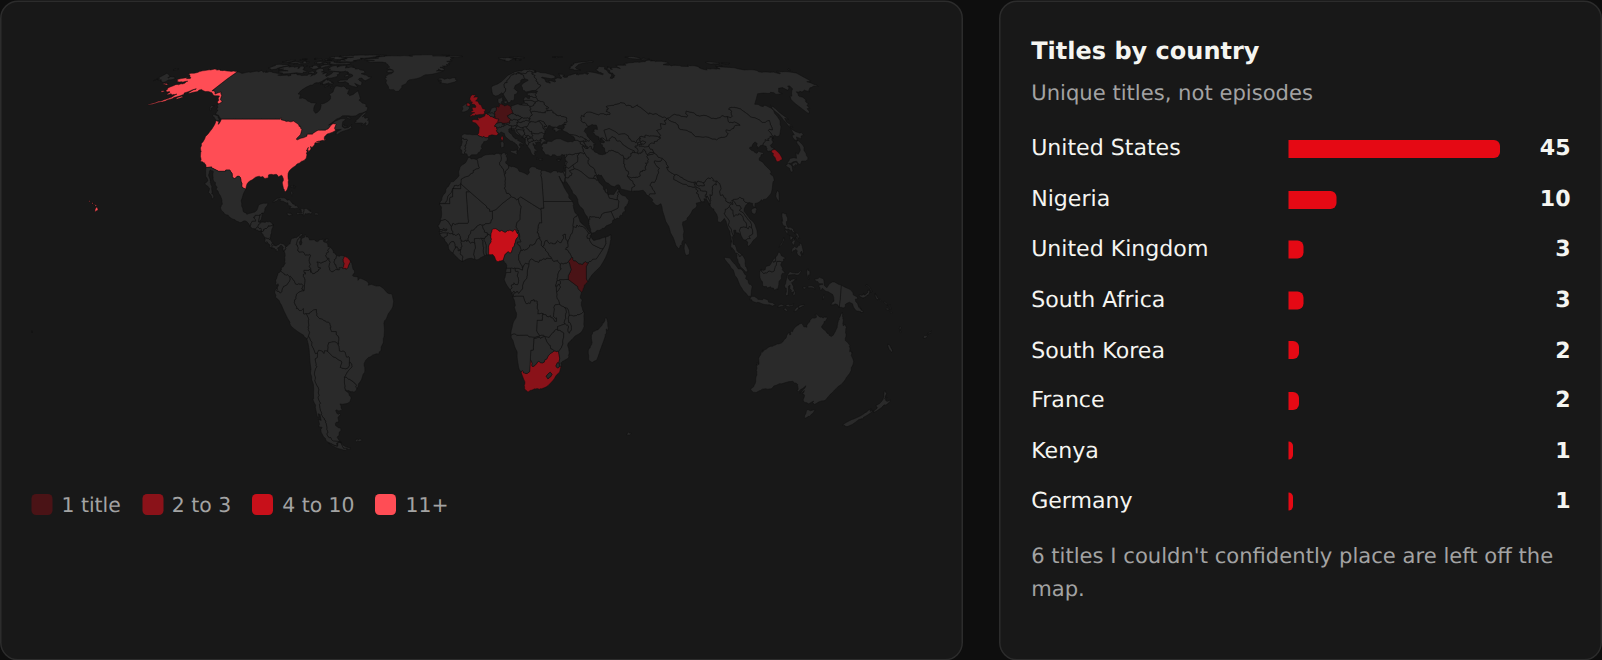
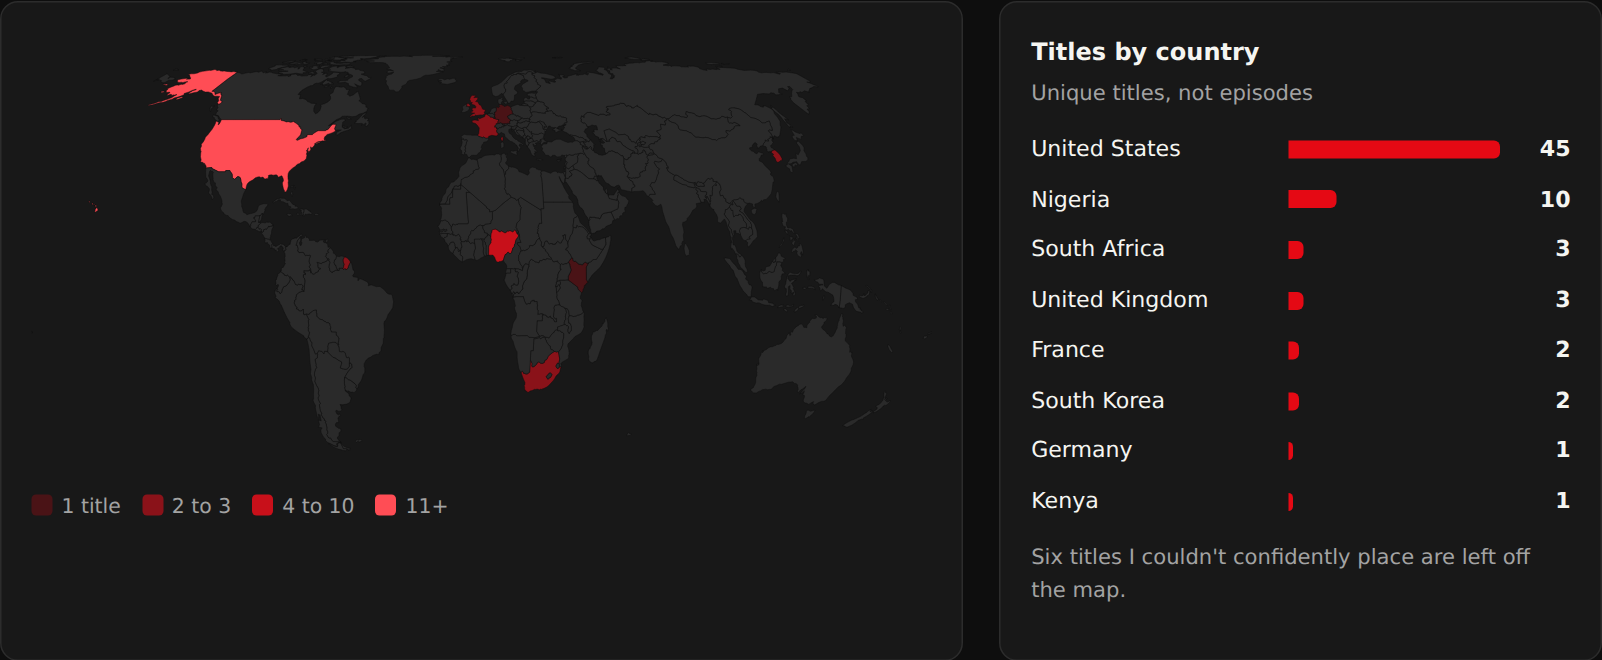
Move cleaning and analysis into SQL, tidy wording
The export is now cleaned in SQLite (ISO dates, show names) and every
number on the site comes from queries in sql/02_analysis.sql. Also
fixes punctuation and number style across the site and README.

Claude-Session: https://claude.ai/code/session_01BtZ3JRaaR4ynkaRfSMBe4b

diff --git a/docs/index.html b/docs/index.html
@@ -100,6 +100,7 @@ details summary { cursor: pointer; }
 
 .method li { margin-bottom: 8px; color: var(--muted); }
 .method b { color: var(--ink); }
+code { font: 500 .85em ui-monospace, Menlo, monospace; background: var(--surface-2); padding: 1px 5px; border-radius: 4px; }
 footer { padding: 40px 0; color: var(--faint); font-size: .88rem; border-top: 1px solid var(--line); }
 footer .wrap { display: flex; flex-wrap: wrap; justify-content: space-between; gap: 12px; }
 </style>
@@ -184,12 +185,12 @@ footer .wrap { display: flex; flex-wrap: wrap; justify-content: space-between; g
     </div>
     <div class="panel method">
       <h3>How I did it</h3>
-      <div class="sub">Python, from raw export to this page</div>
+      <div class="sub">SQL, Python and plain JavaScript</div>
       <ul>
         <li><b>Data:</b> my Netflix viewing history export (Account, Profile, Viewing activity, Download all). Each row is a title and the date I watched it.</li>
-        <li><b>Cleaning:</b> parsed the dates and split titles like "The Night Agent: Season 3: Orion" into the show name and episode.</li>
-        <li><b>Tagging:</b> hand-tagged all 73 shows and films with a genre, film or series, and country of production in a lookup table, then joined it to the history.</li>
-        <li><b>Analysis:</b> monthly and weekday counts, top series, binge sessions (3+ episodes of one show in a day) and country and genre splits.</li>
+        <li><b>Cleaning (SQL):</b> loaded the raw export into SQLite, converted Netflix's "9/19/26" text dates into real ISO dates, and split titles like "The Night Agent: Season 3: Orion" into the show and the episode.</li>
+        <li><b>Tagging:</b> hand-tagged all 73 shows and films with a genre, film or series, and country of production in a lookup table, then joined it to the history in SQL.</li>
+        <li><b>Analysis (SQL):</b> a recursive CTE to fill in months with no viewing, <code>GROUP BY</code> and <code>HAVING</code> to find binge sessions (three or more episodes of one show in a day), plus monthly, weekday, genre and country breakdowns.</li>
         <li><b>Watch time:</b> Netflix doesn't export durations, so hours are an estimate at 45 minutes per episode and 110 per film.</li>
         <li><b>Visuals:</b> charts drawn as SVG in plain JavaScript; the world map is pre-rendered with d3-geo and Natural Earth data.</li>
       </ul>
@@ -216,6 +217,11 @@ const moveTip = (e) => {
 };
 const hideTip = () => { tip.style.opacity = 0; };
 
+// numbers under ten as words, for running text
+const words = (n, cap = false) => {
+  const w = ["zero", "one", "two", "three", "four", "five", "six", "seven", "eight", "nine"][n] ?? String(n);
+  return cap ? w[0].toUpperCase() + w.slice(1) : w;
+};
 const MONTHS = ["Jan","Feb","Mar","Apr","May","Jun","Jul","Aug","Sep","Oct","Nov","Dec"];
 const monthLabel = (m) => { const [y, mo] = m.split("-"); return `${MONTHS[+mo - 1]} ${y}`; };
 const longDate = (iso) => new Date(iso + "T00:00").toLocaleDateString("en-IE", { day: "numeric", month: "long", year: "numeric" });
@@ -266,11 +272,11 @@ function hbars(el, items, name, value) {
 
   const firstYear = d.first.slice(0, 4);
   document.getElementById("tiles").innerHTML = [
-    [d.total_views, "titles and episodes watched"],
-    [d.unique_titles, "different shows and films"],
-    ["~" + d.est_hours, "estimated hours of viewing"],
-    [d.binges, "binge sessions (3+ eps in a day)"],
-    [d.top_day.views, `watched on my biggest day, ${longDate(d.top_day.date)}`],
+    [d.total_views, "Titles and episodes watched"],
+    [d.unique_titles, "Different shows and films"],
+    ["~" + d.est_hours, "Estimated hours of viewing"],
+    [d.binges, "Binge sessions of three or more episodes in a day"],
+    [d.top_day.views, `Watched on my biggest day, ${longDate(d.top_day.date)}`],
   ].map(([n, l]) => `<div class="tile"><div class="n">${n}</div><div class="l">${l}</div></div>`).join("");
 
   // months
@@ -283,7 +289,7 @@ function hbars(el, items, name, value) {
     tipFmt: (m) => `<b>${monthLabel(m.month)}</b>${m.views} title${m.views === 1 ? "" : "s"}`,
   };
   document.getElementById("monthsCallout").innerHTML =
-    `<b>${monthLabel(peak.month)}</b> alone was ${peak.views} titles, ${Math.round((peak.views / d.total_views) * 100)}% of everything I watched in two and a half years. I watched nothing at all in ${empty} of the ${d.months.length} months.`;
+    `<b>${new Date(peak.month + "-01T00:00").toLocaleDateString("en-IE", { month: "long", year: "numeric" })}</b> alone accounted for ${peak.views} titles, ${Math.round((peak.views / d.total_views) * 100)}% of everything I watched in two and a half years. I watched nothing at all in ${words(empty)} of the ${d.months.length} months.`;
   document.getElementById("monthsTable").innerHTML = "<tr><th>Month</th><th class='num'>Titles</th></tr>" +
     d.months.map((m) => `<tr><td>${monthLabel(m.month)}</td><td class="num">${m.views}</td></tr>`).join("");
 
@@ -296,7 +302,7 @@ function hbars(el, items, name, value) {
     tipFmt: (w) => `<b>${w.day}</b>${w.views} titles`,
   };
   document.getElementById("weekdayCallout").innerHTML =
-    `<b>${Math.round((weekend / d.total_views) * 100)}%</b> of my viewing happens Friday to Sunday. Saturday is the top day, Tuesday the quietest.`;
+    `<b>${Math.round((weekend / d.total_views) * 100)}%</b> of my viewing happens Friday to Sunday. Saturday is my top day and Tuesday the quietest.`;
 
   // charts are drawn at their real pixel width, so redraw on resize
   const drawCharts = () => {
@@ -310,7 +316,7 @@ function hbars(el, items, name, value) {
   // series
   hbars(document.getElementById("series"), d.top_series, (s) => s.show, (s) => s.episodes);
   document.getElementById("bingeCallout").innerHTML =
-    `My biggest binge: <b>${d.biggest_binge_n} episodes of ${d.biggest_binge}</b> in a single day.`;
+    `My biggest binge was <b>${words(d.biggest_binge_n)} episodes of ${d.biggest_binge}</b> in a single day, on ${longDate(d.biggest_binge_date)}.`;
 
   // map + countries
   document.getElementById("map").innerHTML = mapSvg;
@@ -320,13 +326,13 @@ function hbars(el, items, name, value) {
     p.addEventListener("mouseleave", hideTip);
   });
   hbars(document.getElementById("countries"), d.countries, (c) => c.country, (c) => c.titles);
-  document.getElementById("unknownNote").textContent = `${d.unknown_country} titles I couldn't confidently place are left off the map.`;
+  document.getElementById("unknownNote").textContent = `${words(d.unknown_country, true)} titles I couldn't confidently place are left off the map.`;
 
   // genres
   hbars(document.getElementById("genres"), d.genres, (g) => g.genre, (g) => g.titles);
   const g0 = d.genres[0];
   document.getElementById("genreCallout").innerHTML =
-    `<b>${g0.genre}</b> wins by a distance: ${g0.titles} of my ${d.unique_titles} titles, about ${Math.round((g0.titles / d.unique_titles) * 100)}%.`;
+    `<b>${g0.genre}</b> wins by a distance, with ${g0.titles} of my ${d.unique_titles} titles (about ${Math.round((g0.titles / d.unique_titles) * 100)}%).`;
 })();
 </script>
 </body>

diff --git a/analysis.py b/analysis.py
@@ -1,82 +1,68 @@
 """Netflix viewing history analysis.
 
-Reads my Netflix export (data/NetflixViewingHistory.csv), joins it with a
-hand-tagged lookup of genre, type and country (data/title_tags.csv) and
-writes the numbers the site uses to docs/data.json.
+1. Loads my Netflix export (data/NetflixViewingHistory.csv) and my
+   hand-tagged lookup of genre, type and country (data/title_tags.csv)
+   into a SQLite database.
+2. Cleans the export with sql/01_clean.sql.
+3. Runs the queries in sql/02_analysis.sql.
+4. Writes the numbers the site uses to docs/data.json.
 
-Watch time is an estimate: Netflix's export has no durations, so I assume
-45 minutes per episode and 110 minutes per film.
+Watch time is an estimate: Netflix's export has no durations, so the SQL
+assumes 45 minutes per episode and 110 minutes per film.
 """
-import collections
 import csv
-import datetime as dt
 import json
+import re
+import sqlite3
 
-EPISODE_MIN = 45
-FILM_MIN = 110
+con = sqlite3.connect(":memory:")
+con.row_factory = sqlite3.Row
 
-rows = [r for r in csv.DictReader(open("data/NetflixViewingHistory.csv", encoding="utf-8")) if r["Title"]]
-tags = {t["show"]: t for t in csv.DictReader(open("data/title_tags.csv", encoding="utf-8"))}
 
-for r in rows:
-    r["date"] = dt.datetime.strptime(r["Date"], "%m/%d/%y").date()
-    r["show"] = r["Title"].split(":")[0].strip()
-    missing = r["show"] not in tags
-    if missing:
-        raise SystemExit(f"no tag for {r['show']!r}")
-    r.update(tags[r["show"]])
+def load_csv(table, path):
+    """Load a CSV into SQLite as text columns, exactly as it is."""
+    with open(path, encoding="utf-8-sig") as f:
+        reader = csv.reader(f)
+        cols = [c.strip().lower() for c in next(reader)]
+        con.execute(f"CREATE TABLE {table} ({', '.join(c + ' TEXT' for c in cols)})")
+        con.executemany(f"INSERT INTO {table} VALUES ({', '.join('?' * len(cols))})", reader)
 
-dates = [r["date"] for r in rows]
-first, last = min(dates), max(dates)
-minutes = sum(EPISODE_MIN if r["type"] == "Series" else FILM_MIN for r in rows)
 
-# monthly views, including empty months so gaps show up
-months, d = [], first.replace(day=1)
-while d <= last:
-    months.append(d.strftime("%Y-%m"))
-    d = (d.replace(day=28) + dt.timedelta(days=4)).replace(day=1)
-by_month = collections.Counter(r["date"].strftime("%Y-%m") for r in rows)
+def named_queries(path):
+    """Split a .sql file into {name: sql} on its '-- name:' lines."""
+    text = open(path, encoding="utf-8").read()
+    parts = re.split(r"^-- name: (\w+)\s*$", text, flags=re.M)
+    return {parts[i]: parts[i + 1].strip() for i in range(1, len(parts), 2)}
 
-weekday_order = ["Mon", "Tue", "Wed", "Thu", "Fri", "Sat", "Sun"]
-by_weekday = collections.Counter(r["date"].strftime("%a") for r in rows)
 
-by_day = collections.Counter(dates)
-top_day, top_day_n = by_day.most_common(1)[0]
+load_csv("raw_history", "data/NetflixViewingHistory.csv")
+load_csv("title_tags", "data/title_tags.csv")
+con.executescript(open("sql/01_clean.sql", encoding="utf-8").read())
 
-shows = collections.Counter(r["show"] for r in rows)
-series_shows = collections.Counter(r["show"] for r in rows if r["type"] == "Series")
+Q = named_queries("sql/02_analysis.sql")
+run = lambda name: [dict(r) for r in con.execute(Q[name])]
 
-# a binge = 3+ episodes of the same series on the same day
-binge = collections.Counter((r["show"], r["date"]) for r in rows if r["type"] == "Series")
-binges = [(s, d, n) for (s, d), n in binge.items() if n >= 3]
+untagged = run("untagged")
+if untagged:
+    raise SystemExit(f"add these shows to data/title_tags.csv: {[r['show'] for r in untagged]}")
 
-# genre and country counted per unique title, so one long series doesn't dominate
-unique = {r["show"]: r for r in rows}
-by_genre = collections.Counter(t["genre"] for t in unique.values())
-by_country = collections.Counter(t["country"] for t in unique.values() if t["country"] != "Unknown")
-by_type = collections.Counter(r["type"] for r in rows)
+summary = run("summary")[0]
+binges = run("binges")
 
 out = {
-    "total_views": len(rows),
-    "unique_titles": len(shows),
-    "first": first.isoformat(),
-    "last": last.isoformat(),
-    "active_days": len(by_day),
-    "est_hours": round(minutes / 60),
-    "films": by_type["Film"],
-    "episodes": by_type["Series"],
-    "top_day": {"date": top_day.isoformat(), "views": top_day_n},
-    "months": [{"month": m, "views": by_month.get(m, 0)} for m in months],
-    "weekdays": [{"day": w, "views": by_weekday.get(w, 0)} for w in weekday_order],
-    "top_series": [{"show": s, "episodes": n} for s, n in series_shows.most_common(8)],
-    "genres": [{"genre": g, "titles": n} for g, n in by_genre.most_common()],
-    "countries": [{"country": c, "iso": tags_iso, "titles": n}
-                  for (c, tags_iso), n in collections.Counter(
-                      (t["country"], t["iso"]) for t in unique.values() if t["country"] != "Unknown").most_common()],
-    "unknown_country": sum(1 for t in unique.values() if t["country"] == "Unknown"),
+    **summary,
+    "est_hours": int(summary["est_hours"]),
+    "top_day": run("top_day")[0],
+    "months": run("months"),
+    "weekdays": run("weekdays"),
+    "top_series": run("top_series"),
+    "genres": run("genres"),
+    "countries": run("countries"),
+    "unknown_country": run("unknown_country")[0]["n"],
     "binges": len(binges),
-    "biggest_binge": max(binges, key=lambda b: b[2])[0] if binges else None,
-    "biggest_binge_n": max(b[2] for b in binges) if binges else 0,
+    "biggest_binge": binges[0]["show"] if binges else None,
+    "biggest_binge_n": binges[0]["episodes"] if binges else 0,
+    "biggest_binge_date": binges[0]["watched_on"] if binges else None,
 }
 json.dump(out, open("docs/data.json", "w"), indent=2, ensure_ascii=False)
 print(json.dumps({k: v for k, v in out.items() if not isinstance(v, list)}, indent=2, ensure_ascii=False))

diff --git a/README.md b/README.md
@@ -1,6 +1,6 @@
 # 🎬 Netflix Viewing Analysis
 
-**What two and a half years of my Netflix history says about how I actually watch.**
+**What two and a half years of my Netflix history says about how I actually watch, analysed with SQL and Python.**
 
 👉 **Live site: https://c20744531.github.io/NetflixViewingAnalysis/**
 
@@ -8,12 +8,12 @@
 
 ## Key findings
 
-- **152 titles and episodes** across **73 shows and films**, from March 2024 to September 2026 (about **145 hours**, estimated)
-- **Feast or famine:** July 2026 alone was 45 titles, 30% of everything. I watched nothing at all in 9 of the 31 months
-- **Weekend viewer:** 63% of my viewing happens Friday to Sunday, with Saturday the biggest day
-- **Binge watcher:** 16 binge sessions (3+ episodes of one show in a day). The biggest was 8 episodes of *The Night Agent* in one day
-- **Crime & Thriller** is my top genre, at a third of all titles
-- **Hollywood first, Nollywood second:** after the US, Nigeria is where most of what I watch is made
+- **152 titles and episodes** across **73 shows and films**, from March 2024 to September 2026 (about **145 hours**, estimated).
+- **Feast or famine:** July 2026 alone accounted for 45 titles, 30% of everything. I watched nothing at all in nine of the 31 months.
+- **Weekend viewer:** 63% of my viewing happens Friday to Sunday, and Saturday is my biggest day.
+- **Binge watcher:** 16 binge sessions (three or more episodes of one show in a day). The biggest was eight episodes of *The Night Agent* on 3 July 2026.
+- **Crime & Thriller** is my top genre, at about a third of all titles.
+- **Hollywood first, Nollywood second:** after the US, Nigeria is where most of what I watch is made.
 
 ![Titles watched per month](docs/screenshots/monthly.png)
 
@@ -21,18 +21,48 @@
 
 ## How I did it
 
-1. **Exported** my viewing history from Netflix (Account, Profile, Viewing activity, Download all)
-2. **Cleaned** it in Python: parsed the dates and split titles like `The Night Agent: Season 3: Orion` into show and episode
-3. **Tagged** all 73 titles by hand with genre, film or series, and country of production ([`data/title_tags.csv`](data/title_tags.csv))
-4. **Analysed** monthly and weekday patterns, top series, binge sessions, genres and countries ([`analysis.py`](analysis.py))
-5. **Visualised** it as a single-page site with hand-built SVG charts and a world map pre-rendered with d3-geo ([`tools/build_map.mjs`](tools/build_map.mjs))
+**1. Cleaning in SQL** ([`sql/01_clean.sql`](sql/01_clean.sql))
 
-**Note on watch time:** Netflix's export has no durations, so hours are estimated at 45 minutes per episode and 110 minutes per film.
+I loaded the raw Netflix export into SQLite. Netflix gives dates as text like `9/19/26`, so I split them on the slashes and rebuilt them as proper ISO dates, and pulled the show name out of titles like `The Night Agent: Season 3: Orion`:
+
+```sql
+SELECT PRINTF('%04d-%02d-%02d', y, m, d) AS watched_on,
+       title,
+       TRIM(CASE WHEN INSTR(title, ':') > 0
+                 THEN SUBSTR(title, 1, INSTR(title, ':') - 1)
+                 ELSE title END) AS show
+FROM dated;
+```
+
+**2. Tagging**
+
+I hand-tagged all 73 titles with a genre, film or series, and country of production in [`data/title_tags.csv`](data/title_tags.csv), then joined it to the history in SQL.
+
+**3. Analysis in SQL** ([`sql/02_analysis.sql`](sql/02_analysis.sql))
+
+A recursive CTE fills in the months where I watched nothing, so gaps show up in the chart, and `GROUP BY` with `HAVING` finds binge sessions:
+
+```sql
+-- a binge is 3+ episodes of the same series on the same day
+SELECT v.show, v.watched_on, COUNT(*) AS episodes
+FROM views v
+JOIN title_tags t USING (show)
+WHERE t.type = 'Series'
+GROUP BY v.show, v.watched_on
+HAVING COUNT(*) >= 3
+ORDER BY episodes DESC;
+```
+
+**4. Pipeline and visuals**
+
+[`analysis.py`](analysis.py) loads the CSVs, runs both SQL files and exports the results to `docs/data.json`. The site draws its charts as SVG in plain JavaScript, and the world map is pre-rendered with d3-geo ([`tools/build_map.mjs`](tools/build_map.mjs)).
+
+**A note on watch time:** Netflix's export has no durations, so hours are estimated at 45 minutes per episode and 110 minutes per film.
 
 ## Run it yourself
 
 ```bash
-python3 analysis.py                 # writes docs/data.json
+python3 analysis.py                 # runs the SQL and writes docs/data.json
 npm install d3-geo topojson-client world-atlas
 node tools/build_map.mjs            # writes docs/map.svg
 cd docs && python3 -m http.server   # open http://localhost:8000
@@ -42,4 +72,4 @@ Swap in your own `NetflixViewingHistory.csv` and add your titles to `data/title_
 
 ## Tools
 
-Python · JavaScript · SVG · d3-geo · Natural Earth map data · GitHub Pages
+SQL (SQLite) · Python · JavaScript · SVG · d3-geo · Natural Earth map data · GitHub Pages
